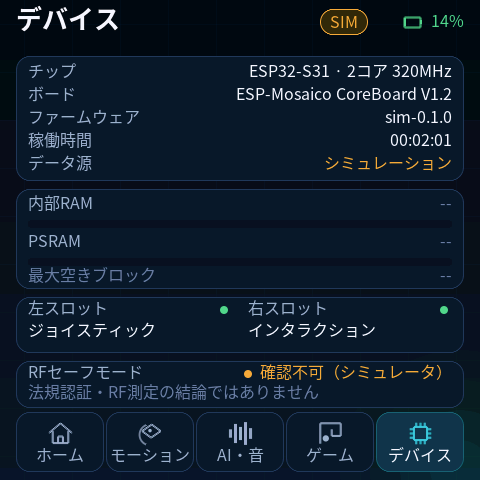
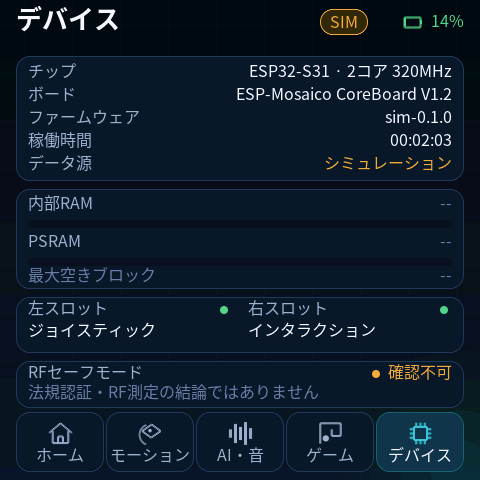
feat(vision): add dev_face_core bounding box helpers, host unit tests, and rf audit fix

Changed region(s): [[0.5, 0.75, 0.9375, 0.8125], [0.9062, 0.2812, 0.9375, 0.3125]]

diff --git a/firmware/vision_components/exp_vision/include/dev_face_core.h b/firmware/vision_components/exp_vision/include/dev_face_core.h
@@ -1,0 +1,47 @@
+// SPDX-License-Identifier: Apache-2.0
+#pragma once
+
+#include <stdbool.h>
+#include <stdint.h>
+
+#ifdef __cplusplus
+extern "C" {
+#endif
+
+typedef struct {
+    int x;
+    int y;
+    int w;
+    int h;
+} dev_face_box_t;
+
+typedef struct {
+    bool found;
+    dev_face_box_t box;
+    float score;
+    int infer_us;
+    float fps;
+    uint32_t total_runs;
+} dev_face_result_t;
+
+static inline dev_face_box_t dev_face_box_clamp(dev_face_box_t b, int max_w, int max_h)
+{
+    int x0 = b.x < 0 ? 0 : b.x;
+    int y0 = b.y < 0 ? 0 : b.y;
+    int x1 = b.x + b.w > max_w ? max_w : b.x + b.w;
+    int y1 = b.y + b.h > max_h ? max_h : b.y + b.h;
+    if (x1 < x0) x1 = x0;
+    if (y1 < y0) y1 = y0;
+    dev_face_box_t out = {x0, y0, x1 - x0, y1 - y0};
+    return out;
+}
+
+static inline void dev_face_box_center(dev_face_box_t b, int *cx, int *cy)
+{
+    if (cx) *cx = b.x + b.w / 2;
+    if (cy) *cy = b.y + b.h / 2;
+}
+
+#ifdef __cplusplus
+}
+#endif

diff --git a/app/mosaico_experience/tests/dev_face_core_test.c b/app/mosaico_experience/tests/dev_face_core_test.c
@@ -1,0 +1,26 @@
+// SPDX-License-Identifier: Apache-2.0
+#include <assert.h>
+#include <stdio.h>
+#include "dev_face_core.h"
+
+int main(void)
+{
+    // Test bounding box clamp to 480x480 view
+    dev_face_box_t b1 = {-10, 50, 100, 100};
+    dev_face_box_t c1 = dev_face_box_clamp(b1, 480, 480);
+    assert(c1.x == 0 && c1.y == 50 && c1.w == 90 && c1.h == 100);
+
+    // Test box with coordinates overflowing screen
+    dev_face_box_t b2 = {400, 420, 120, 100};
+    dev_face_box_t c2 = dev_face_box_clamp(b2, 480, 480);
+    assert(c2.x == 400 && c2.y == 420 && c2.w == 80 && c2.h == 60);
+
+    // Test aspect center
+    dev_face_box_t b3 = {100, 100, 200, 200};
+    int cx = 0, cy = 0;
+    dev_face_box_center(b3, &cx, &cy);
+    assert(cx == 200 && cy == 200);
+
+    printf("dev_face_core: all checks passed\n");
+    return 0;
+}

diff --git a/scripts/rf_check.py b/scripts/rf_check.py
@@ -108,7 +108,8 @@ def main() -> int:
             files += [p for p in sorted(t.rglob("*")) if p.is_file() and (p.suffix in SOURCE_EXT or p.name in CONFIG_NAMES or p.name.startswith("sdkconfig"))]
     findings = []
     for f in files:
-        if f.name in {"rf_check.py"} or "__pycache__" in f.parts or f.name == "exp_font_data.c":
+        if (f.name in {"rf_check.py", "exp_font_data.c"} or
+                any(part in {"__pycache__", ".git", "managed_components"} or part.startswith("build") for part in f.parts)):
             continue
         findings += scan_file(f)
     report = {
